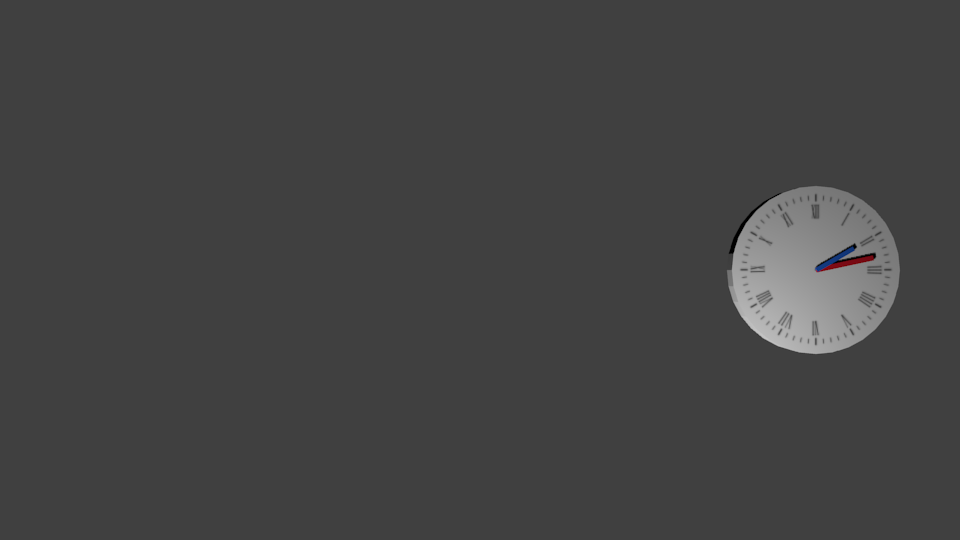
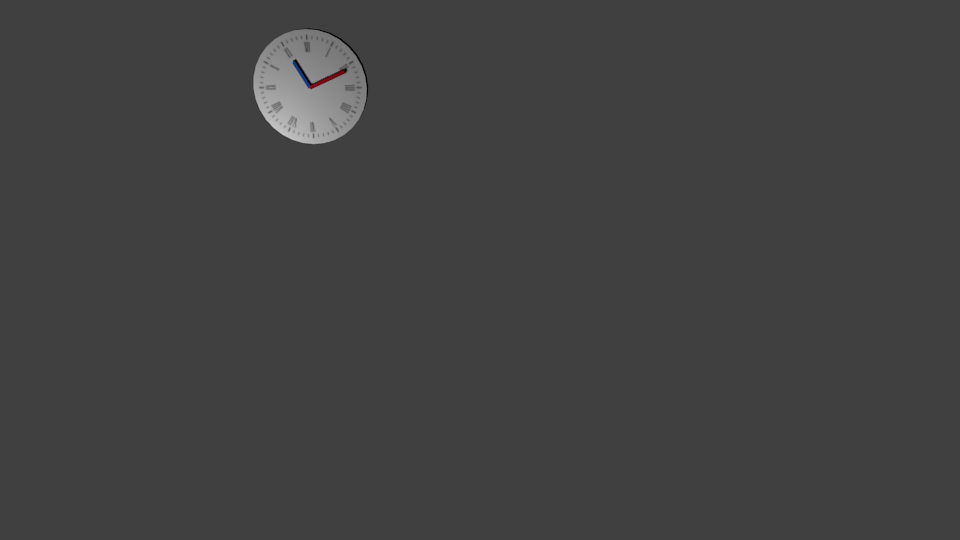
Adding csv in watch.py

Changed region(s): [[0.75, 0.3259, 0.9375, 0.6519], [0.25, 0.0296, 0.4062, 0.2667]]

diff --git a/node/modules/core/blender_api.js b/node/modules/core/blender_api.js
@@ -4,13 +4,30 @@ var config	= require('config');
 
 function executeCommand(_jsonCommand){
 	
-	var exec = require('child_process').exec;
+	var str = '"hours","minutes","x","y","z","eulerX","eulerY","eulerZ"\n';
+	str  += _jsonCommand.hours+","+_jsonCommand.minutes+",";
+	str += _jsonCommand.cam.x + "," + _jsonCommand.cam.y + "," + _jsonCommand.cam.z + ",";
+	str += _jsonCommand.cam.eulerX + "," + _jsonCommand.cam.eulerY + "," + _jsonCommand.cam.eulerZ;
 
-	var child = exec(config.get('blender.path') + ' ' + __base + 'public/blender/watch/watch.blend -b -P ' + __base + 'public/blender/watch/watch.py -- public/blender/watch/test '+_jsonCommand.hours+' '+_jsonCommand.minutes+' '+_jsonCommand.cam.x);
+	var csvPath = __base + 'public/blender/watch/watch.csv';
+	console.log(csvPath);
 
-	child.stdout.on('data', function(chunk) {
-	  console.log(chunk.toString());
-	});
+	fs.writeFile(csvPath, str, function(err) {
+	    if(err) {
+	        return console.log(err);
+	    }
+
+	    console.log("The file was saved!");
+
+	    var exec 	= require('child_process').exec;
+		var child 	= exec(config.get('blender.path') + ' ' + __base + 'public/blender/watch/watch.blend -b -P ' + __base + 'public/blender/watch/watch.py -- ' + __base + 'public/blender/watch/test '+ csvPath);
+
+		child.stdout.on('data', function(chunk) {
+		  console.log(chunk.toString());
+		});
+	}); 
+
+	
 
 	// or if you want to send output elsewhere
 	//child.stdout.pipe(dest);

diff --git a/node/public/blender/watch/watch.py b/node/public/blender/watch/watch.py
@@ -1,6 +1,8 @@
 import bpy
 import sys
 import math
+import csv
+
 argv = sys.argv
 argv = argv[argv.index("--") + 1:]  # get all args after "--"
 
@@ -9,28 +11,41 @@ print(argv)  # --> ['example', 'args', '123']
 class JLCWatch(object) :
 
 	def __init__(self):
+		
+		row = []
+		f = open(argv[1], 'rt')
+		try:
+			reader = csv.reader(f)
+			next(reader)
+			for row in reader:
+				print(row)
+		finally:
+			f.close()
 
+		print(row[0])
 		obj_name = 'Camera'
 		obj = bpy.data.objects[obj_name] # bpy.types.Camera
 		bpy.data.objects[obj_name].select = True
-		obj.location.x = int(argv[3])
+		obj.location.x = float(row[2])
 		# be carefull axis y and z are swapped 
-		obj.location.y = -10.0
-		obj.location.z = 0.0
+		obj.location.y = float(row[3])
+		obj.location.z = float(row[4])
+
+		obj.rotation_euler = (math.radians(90.0 - float(row[5])),0.0,0.0)
 
 		obj_name = 'hours'
 		hour = bpy.data.objects[obj_name]
 		bpy.context.scene.objects.active = bpy.data.objects[obj_name]
 		bpy.data.objects[obj_name].select = True
 		bpy.data.objects[obj_name].rotation_mode = 'XYZ'
-		bpy.data.objects[obj_name].rotation_euler = (0,(2.0 * math.pi / 12.0) * int(argv[1]),0)
+		bpy.data.objects[obj_name].rotation_euler = (0,(2.0 * math.pi / 12.0) * int(row[0]),0)
 
 		obj_name = 'minutes'
 		minute = bpy.data.objects[obj_name]
 		bpy.context.scene.objects.active = bpy.data.objects[obj_name]
 		bpy.data.objects[obj_name].select = True
 		bpy.data.objects[obj_name].rotation_mode = 'XYZ'
-		bpy.data.objects[obj_name].rotation_euler = (0,(2.0 * math.pi / 60.0) * int(argv[2]),0)
+		bpy.data.objects[obj_name].rotation_euler = (0,(2.0 * math.pi / 60.0) * int(row[1]),0)
 
 		scene = bpy.context.scene
 		scene.camera.data.angle = 60*(math.pi/180.0)
@@ -39,7 +54,7 @@ class JLCWatch(object) :
 		scene.render.filepath = argv[0]
 		bpy.ops.render.render(write_still=True)
 		# bpy.ops.export_scene.obj(filepath=argv[0]+".obj", filter_glob="*.obj;*.mtl")
-		#cbpy.ops.wm.save_as_mainfile(filepath=argv[0]+'.blend')
+		cbpy.ops.wm.save_as_mainfile(filepath=argv[0]+'.blend')
 		scene.render.filepath = fp
 		return
 
@@ -48,5 +63,4 @@ def main():
 	return
 
 if __name__ == '__main__':
-
-  main()
+	main()
